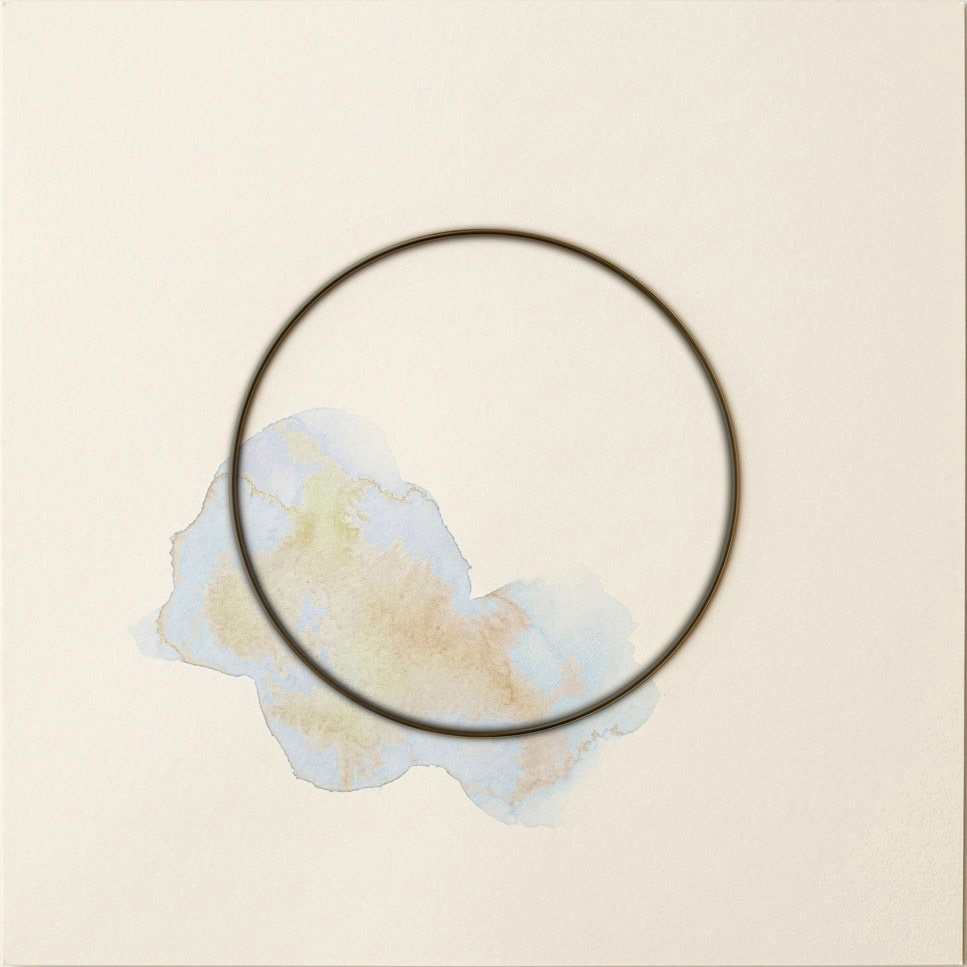
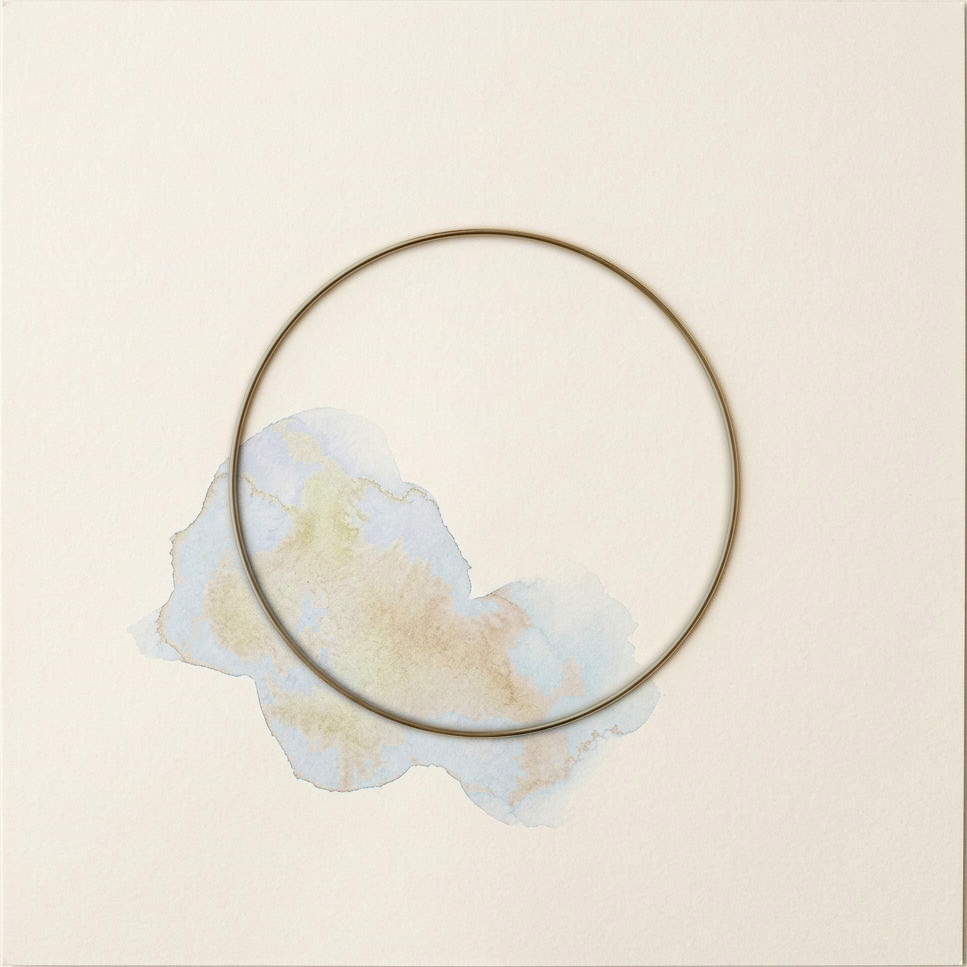
style: remove ruler left/right borders, golden & dark brown text, soften card & ring boldness, grid cards for education & credentials

Changed region(s): [[0.2172, 0.2172, 0.7756, 0.7756]]

diff --git a/src/App.jsx b/src/App.jsx
@@ -10,6 +10,7 @@ import TracingArtGlobe from './components/TracingArtGlobe';
 import MosaicShaderBackground from '@/components/ui/mosaic-shader-background';
 import ProjectExperienceModal from './components/ProjectExperienceModal';
 import { RulerCarousel } from '@/components/ui/ruler-carousel';
+import GridCard from '@/components/ui/grid-card';
 import { portfolioData } from './data/portfolioData';
 import {
   Sparkles,
@@ -123,8 +124,8 @@ export default function App() {
                     {personal.bio[1]}
                   </p>
 
-                  {/* ── INTERACTIVE RULER CAROUSEL (CURSOR-FOLLOWING: ACADEMICS -> EDUCATION -> LOCATION -> SPECIFICATION) ── */}
-                  <div className="rounded-xl border border-black/[0.06] bg-white/70 backdrop-blur-sm p-3 shadow-[0_1px_3px_rgba(0,0,0,0.02)] overflow-hidden">
+                  {/* ── INTERACTIVE RULER CAROUSEL (NO LEFT/RIGHT BORDER: ONLY TOP AND BOTTOM BORDERS) ── */}
+                  <div className="border-t border-b border-l-0 border-r-0 border-black/[0.08] dark:border-white/[0.08] bg-white/60 dark:bg-zinc-900/40 backdrop-blur-xs py-2 px-1 shadow-[0_1px_2px_rgba(0,0,0,0.02)] overflow-hidden">
                     <RulerCarousel
                       originalItems={[
                         { id: 1, title: "ACADEMICS", subtitle: "B.Tech AI & DS · CGPA 8.0" },
@@ -132,9 +133,9 @@ export default function App() {
                         { id: 3, title: "LOCATION", subtitle: "Tamil Nadu, India · Open to Remote & Onsite" },
                         { id: 4, title: "SPECIFICATION", subtitle: "Data Analytics & Web Development" },
                       ]}
-                      height="h-[105px]"
-                      itemWidth={270}
-                      gap={32}
+                      height="h-[110px]"
+                      itemWidth={280}
+                      gap={36}
                     />
                   </div>
 
@@ -231,55 +232,61 @@ export default function App() {
                   </p>
                 </div>
 
-                {/* Right Content */}
-                <div className="lg:col-span-8 space-y-6">
-                  {/* Formal Education Card */}
-                  <div className="p-6 rounded-2xl bg-white/85 backdrop-blur-sm border border-black/[0.06] space-y-2">
-                    <div className="flex items-center justify-between text-xs font-mono text-zinc-500">
-                      <span>{education[0].institution}</span>
-                      <span>{education[0].period}</span>
+                {/* Right Content — Grid Card Layout */}
+                <div className="lg:col-span-8 space-y-5">
+                  {/* Formal Education — Grid Card */}
+                  <GridCard className="p-0">
+                    <div className="p-6 space-y-2">
+                      <div className="flex items-center justify-between text-xs font-mono text-zinc-500">
+                        <span>{education[0].institution}</span>
+                        <span>{education[0].period}</span>
+                      </div>
+                      <h3 className="text-lg font-semibold text-zinc-900">
+                        {education[0].degree}
+                      </h3>
+                      <p className="text-sm text-zinc-600 leading-relaxed">
+                        {education[0].detail}
+                      </p>
                     </div>
-                    <h3 className="text-lg font-semibold text-zinc-900">
-                      {education[0].degree}
-                    </h3>
-                    <p className="text-sm text-zinc-600 leading-relaxed">
-                      {education[0].detail}
-                    </p>
-                  </div>
+                  </GridCard>
 
-                  {/* Certifications - POLAROID LINE CAROUSEL (Clothesline & Pegs from 21st.dev) */}
-                  <div className="w-full pt-1">
-                    <PolaroidLineCarousel
-                      slides={certifications.map((cert, idx) => {
-                        const credentialImages = [
-                          "/images/covers/cover-teal.jpg",
-                          "/images/covers/cover-amber.jpg",
-                          "/images/covers/cover-blue.jpg",
-                          "/images/covers/cover-emerald.jpg",
-                          "/images/covers/cover-lavender.jpg",
-                          "/images/covers/cover-rose.jpg",
-                          "/images/covers/cover-original.jpg",
-                          "/images/covers/cover-indigo.jpg",
-                        ];
-                        return {
-                          image: credentialImages[idx % credentialImages.length],
-                          title: cert.shortTitle || cert.name,
-                          issuer: cert.issuer,
-                          caption: `${cert.issuer} • Issued ${cert.year}`,
-                          alt: `${cert.name} - ${cert.issuer}`,
-                        };
-                      })}
-                      height="165px"
-                      cardWidth={92}
-                      sag={12}
-                      swing={1}
-                      autoplay={3800}
-                      string="#71717a"
-                      background="transparent"
-                      ink="#18181b"
-                      showBar={false}
-                      ariaLabel="Certifications clothesline carousel"
-                    />
+                  {/* Certifications — Grid of Small Grid Cards */}
+                  <div className="grid grid-cols-2 sm:grid-cols-3 lg:grid-cols-4 gap-3">
+                    {certifications.map((cert, idx) => {
+                      const credentialImages = [
+                        "/images/covers/cover-teal.jpg",
+                        "/images/covers/cover-amber.jpg",
+                        "/images/covers/cover-blue.jpg",
+                        "/images/covers/cover-emerald.jpg",
+                        "/images/covers/cover-lavender.jpg",
+                        "/images/covers/cover-rose.jpg",
+                        "/images/covers/cover-original.jpg",
+                        "/images/covers/cover-indigo.jpg",
+                      ];
+                      return (
+                        <GridCard key={idx} className="p-0" gridSize={20}>
+                          <div className="flex flex-col items-center text-center p-4 gap-2.5">
+                            {/* Cert Image Circle */}
+                            <div className="w-14 h-14 rounded-full overflow-hidden border border-black/[0.06] shadow-sm flex-shrink-0">
+                              <img
+                                src={credentialImages[idx % credentialImages.length]}
+                                alt={cert.name}
+                                className="w-full h-full object-cover"
+                              />
+                            </div>
+                            {/* Cert Details */}
+                            <div className="space-y-0.5 min-w-0">
+                              <h4 className="text-xs font-semibold text-zinc-800 leading-tight">
+                                {cert.shortTitle || cert.name}
+                              </h4>
+                              <p className="text-[10px] text-zinc-500 font-mono">
+                                {cert.issuer} · {cert.year}
+                              </p>
+                            </div>
+                          </div>
+                        </GridCard>
+                      );
+                    })}
                   </div>
                 </div>
               </section>

diff --git a/src/components/ui/great-ui-vinyl-album-card.tsx b/src/components/ui/great-ui-vinyl-album-card.tsx
@@ -78,13 +78,13 @@ export default function VinylAlbumCard({
         {/* Animated Spinning Lighter Champagne Platinum CD Disc */}
         <motion.div
           className={cn(
-            "absolute flex items-center justify-center overflow-hidden rounded-full border border-black/[0.08] transition-colors duration-300 shadow-lg backdrop-blur-md",
+            "absolute flex items-center justify-center overflow-hidden rounded-full border border-black/[0.04] transition-colors duration-300 shadow-md backdrop-blur-md",
             isSmall
               ? "h-44 w-44 sm:h-48 sm:w-48"
               : isCompact
               ? "h-56 w-56 sm:h-60 sm:w-60"
               : "h-72 w-72",
-            "bg-[#A39B8F] bg-gradient-to-tr from-[#8A8174] via-[#9E9588] to-[#B8B0A3]",
+            "bg-[#B8B0A3] bg-gradient-to-tr from-[#A39B8F] via-[#B2AAA0] to-[#C8C0B5]",
           )}
           initial={{ x: 0, rotate: 0 }}
           animate={{
@@ -94,21 +94,21 @@ export default function VinylAlbumCard({
           transition={{ type: "spring", stiffness: 85, damping: 16, mass: 1 }}
         >
           {/* Concentric Grooves in Soft Champagne Platinum Tones */}
-          <div className="absolute inset-1 rounded-full border border-[#B8B0A3]/70" />
-          <div className="absolute inset-2.5 rounded-full border border-[#6E6557]/40" />
-          <div className="absolute inset-4 rounded-full border border-[#B8B0A3]/80" />
-          <div className="absolute inset-6 rounded-full border border-[#6E6557]/45" />
-          <div className="absolute inset-8 rounded-full border border-[#B8B0A3]/70" />
-          <div className="absolute inset-10 rounded-full border border-[#6E6557]/40" />
-          <div className="absolute inset-12 rounded-full border border-[#B8B0A3]/80" />
-          <div className="absolute inset-15 rounded-full border border-[#6E6557]/45" />
-          <div className="absolute inset-18 rounded-full border border-[#B8B0A3]/70" />
-          <div className="absolute inset-22 rounded-full border border-[#6E6557]/40" />
+          <div className="absolute inset-1 rounded-full border border-[#C8C0B5]/50" />
+          <div className="absolute inset-2.5 rounded-full border border-[#8A8174]/25" />
+          <div className="absolute inset-4 rounded-full border border-[#C8C0B5]/55" />
+          <div className="absolute inset-6 rounded-full border border-[#8A8174]/30" />
+          <div className="absolute inset-8 rounded-full border border-[#C8C0B5]/50" />
+          <div className="absolute inset-10 rounded-full border border-[#8A8174]/25" />
+          <div className="absolute inset-12 rounded-full border border-[#C8C0B5]/55" />
+          <div className="absolute inset-15 rounded-full border border-[#8A8174]/30" />
+          <div className="absolute inset-18 rounded-full border border-[#C8C0B5]/50" />
+          <div className="absolute inset-22 rounded-full border border-[#8A8174]/25" />
 
           {/* Center Album Label */}
           <div
             className={cn(
-              "relative flex items-center justify-center overflow-hidden rounded-full shadow-xs border border-black/[0.06] bg-white",
+              "relative flex items-center justify-center overflow-hidden rounded-full shadow-xs border border-black/[0.04] bg-white",
               isSmall ? "h-16 w-16" : isCompact ? "h-20 w-20" : "h-24 w-24",
             )}
           >
@@ -118,8 +118,8 @@ export default function VinylAlbumCard({
               className="absolute inset-0 h-full w-full scale-[1.08] object-cover contrast-[1.08] saturate-[1.15] brightness-[1.03]"
             />
             {/* Center Spindle Hole with Subtle Champagne Rim */}
-            <div className="z-10 h-3 w-3 rounded-full bg-[#524B40] shadow-inner ring-1.5 ring-[#3D372E]" />
-            <div className="absolute inset-0 rounded-full ring-1 inset-ring ring-[#B8B0A3]/70" />
+            <div className="z-10 h-3 w-3 rounded-full bg-[#6E6557] shadow-inner ring-1.5 ring-[#5A5348]" />
+            <div className="absolute inset-0 rounded-full ring-1 inset-ring ring-[#C8C0B5]/50" />
           </div>
 
           {/* Radial Light Sheen */}
@@ -130,7 +130,7 @@ export default function VinylAlbumCard({
         {/* ── ALBUM COVER SLEEVE (LIGHTENED SHADE & BORDER + CENTER HEADER ONLY) ── */}
         <motion.div
           className={cn(
-            "absolute z-20 overflow-hidden shadow-[0_4px_16px_rgba(0,0,0,0.04)] hover:shadow-[0_8px_24px_rgba(0,0,0,0.08)] border border-black/[0.05] cursor-pointer bg-white transition-all duration-300",
+            "absolute z-20 overflow-hidden shadow-[0_2px_10px_rgba(0,0,0,0.025)] hover:shadow-[0_4px_16px_rgba(0,0,0,0.05)] border border-black/[0.035] cursor-pointer bg-white transition-all duration-300",
             isSmall
               ? "h-48 w-48 sm:h-52 sm:w-52 rounded-2xl"
               : isCompact
@@ -146,19 +146,19 @@ export default function VinylAlbumCard({
           }}
           transition={{ type: "spring", stiffness: 150, damping: 20 }}
         >
-          {/* Cover Artwork Image with Lightened, Luminous Tone */}
+          {/* Cover Artwork Image with Softer, Delicate Tone */}
           <img
             src={coverImage}
             alt={title}
-            className="absolute inset-0 h-full w-full object-cover transition-transform duration-500 group-hover:scale-105 contrast-[1.08] saturate-[1.15] brightness-[1.03]"
+            className="absolute inset-0 h-full w-full object-cover transition-transform duration-500 group-hover:scale-105 contrast-[1.03] saturate-[1.06] brightness-[1.02]"
           />
 
           {/* Light Translucent Backdrop Veil */}
           <div className="absolute inset-0 bg-white/10 backdrop-blur-[0.5px] flex flex-col items-center justify-center p-4 sm:p-5 text-center select-none">
             <h3
               className={cn(
-                "relative z-10 font-serif font-medium text-zinc-900 tracking-tight leading-snug drop-shadow-[0_1px_2px_rgba(255,255,255,0.95)] text-balance",
-                isSmall ? "text-base sm:text-lg" : "text-lg sm:text-xl",
+                "relative z-10 font-serif font-normal text-zinc-800 tracking-tight leading-snug drop-shadow-[0_1px_2px_rgba(255,255,255,0.9)] text-balance",
+                isSmall ? "text-[15px] sm:text-[17px]" : "text-base sm:text-lg",
               )}
             >
               {title}

diff --git a/src/components/ui/ruler-carousel.tsx b/src/components/ui/ruler-carousel.tsx
@@ -164,18 +164,14 @@ export function RulerCarousel({
                 key={item.id}
                 type="button"
                 onClick={() => handleItemClick(index)}
-                className={`flex flex-col items-center justify-center text-center cursor-pointer transition-colors duration-200 ${
-                  isActive
-                    ? "text-zinc-900 dark:text-zinc-50"
-                    : "text-zinc-400/80 hover:text-zinc-600 dark:text-zinc-500 dark:hover:text-zinc-300"
-                }`}
+                className="flex flex-col items-center justify-center text-center cursor-pointer select-none"
                 style={{
                   width: `${itemWidth}px`,
                   minWidth: `${itemWidth}px`,
                 }}
                 animate={{
-                  scale: isActive ? 1 : 0.88,
-                  opacity: isActive ? 1 : 0.35,
+                  scale: isActive ? 1 : 0.9,
+                  opacity: isActive ? 1 : 0.7,
                 }}
                 transition={{
                   type: "spring",
@@ -183,15 +179,24 @@ export function RulerCarousel({
                   damping: 28,
                 }}
               >
-                <span className="text-lg sm:text-xl font-bold tracking-wider font-mono">
+                {/* Golden Title (e.g. ACADEMICS) */}
+                <span
+                  className={`text-lg sm:text-xl font-bold tracking-wider font-mono transition-colors duration-200 ${
+                    isActive
+                      ? "text-[#b45309] dark:text-[#f59e0b] drop-shadow-[0_1px_1px_rgba(255,255,255,0.8)]"
+                      : "text-[#b45309]/75 dark:text-[#f59e0b]/70"
+                  }`}
+                >
                   {item.title}
                 </span>
+
+                {/* Dark Brown Subtitle (e.g. B.Tech AI & DS · CGPA 8.0) */}
                 {item.subtitle && (
                   <span
-                    className={`text-xs font-medium tracking-tight mt-0.5 max-w-[270px] truncate transition-opacity duration-200 ${
+                    className={`text-xs sm:text-[13px] font-semibold tracking-tight mt-0.5 max-w-[280px] truncate transition-colors duration-200 ${
                       isActive
-                        ? "text-zinc-600 dark:text-zinc-300 opacity-100"
-                        : "text-zinc-400 opacity-50"
+                        ? "text-[#3d2314] dark:text-[#e2d5c3]"
+                        : "text-[#4a2e1b]/80 dark:text-[#c4b5a2]/80"
                     }`}
                   >
                     {item.subtitle}

diff --git a/src/components/ui/grid-card.tsx b/src/components/ui/grid-card.tsx
@@ -1,0 +1,40 @@
+"use client";
+
+import React from "react";
+import { cn } from "@/lib/utils";
+
+export interface GridCardProps {
+  children?: React.ReactNode;
+  className?: string;
+  gridSize?: number;
+}
+
+export default function GridCard({
+  children,
+  className,
+  gridSize = 28,
+}: GridCardProps) {
+  return (
+    <div
+      className={cn(
+        "group relative overflow-hidden rounded-2xl border border-black/[0.06] bg-white/80 backdrop-blur-sm transition-all duration-300 hover:border-black/[0.1] hover:shadow-[0_4px_20px_rgba(0,0,0,0.06)]",
+        className,
+      )}
+    >
+      {/* Animated Grid Background */}
+      <div
+        className="pointer-events-none absolute inset-0 opacity-[0.04] transition-opacity duration-500 group-hover:opacity-[0.07]"
+        style={{
+          backgroundImage: `linear-gradient(to right, #71717a 1px, transparent 1px), linear-gradient(to bottom, #71717a 1px, transparent 1px)`,
+          backgroundSize: `${gridSize}px ${gridSize}px`,
+        }}
+      />
+
+      {/* Gradient Overlay on Hover */}
+      <div className="pointer-events-none absolute inset-0 bg-gradient-to-br from-amber-50/0 via-transparent to-amber-100/0 opacity-0 transition-opacity duration-500 group-hover:opacity-100 group-hover:from-amber-50/30 group-hover:to-amber-100/20" />
+
+      {/* Content */}
+      <div className="relative z-10">{children}</div>
+    </div>
+  );
+}
